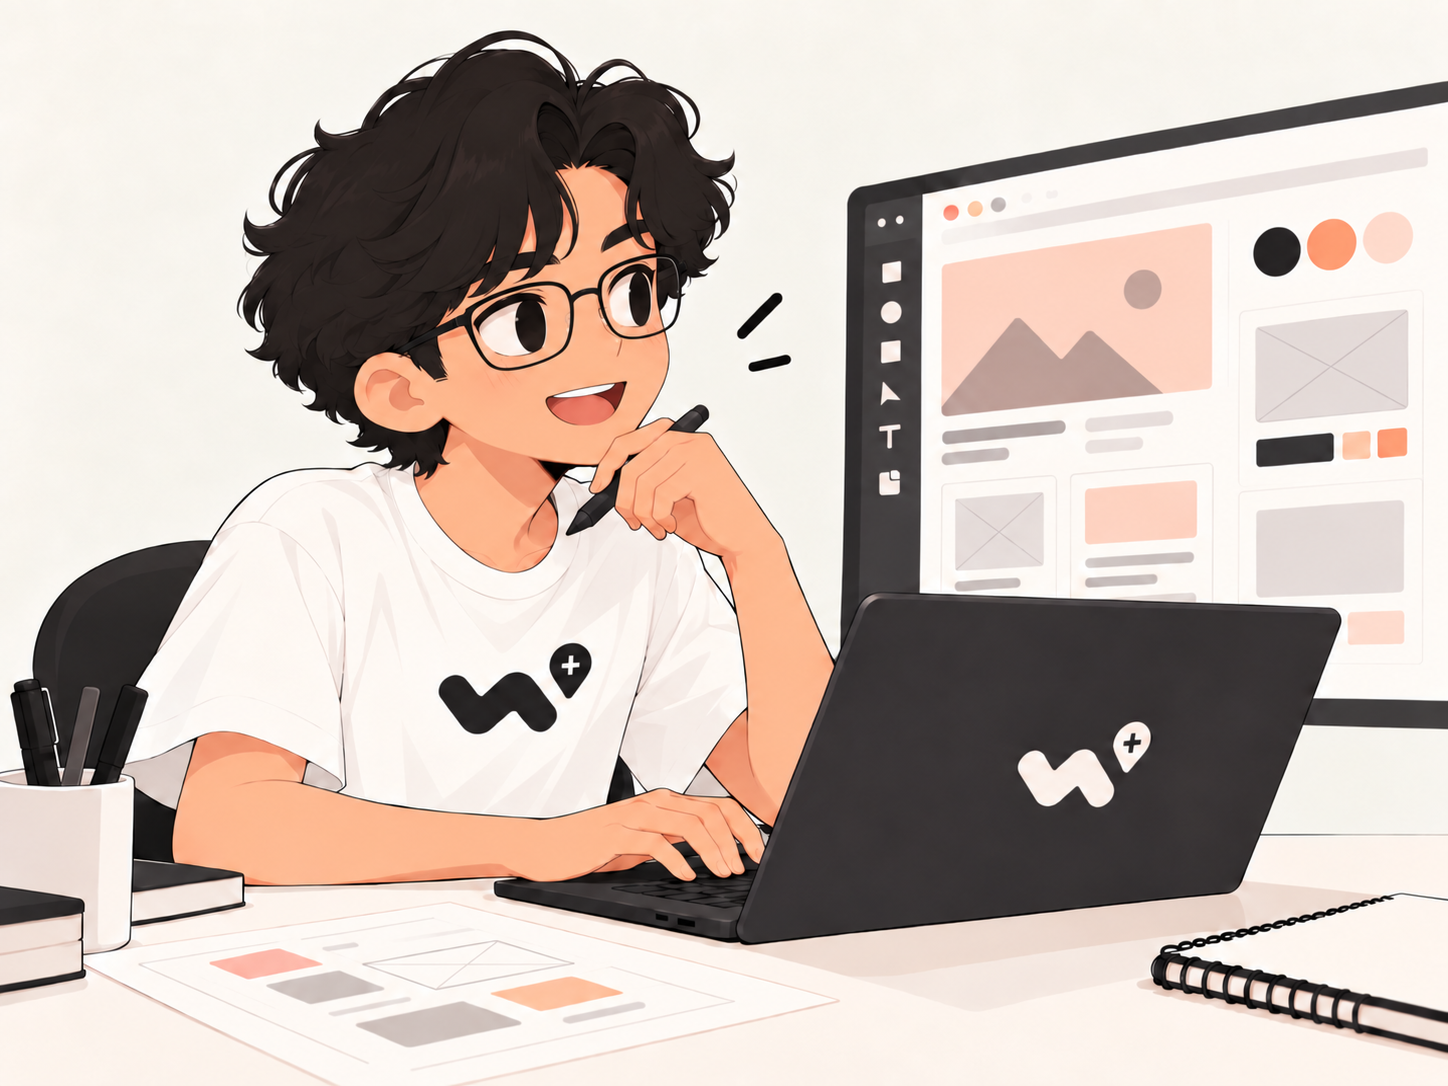
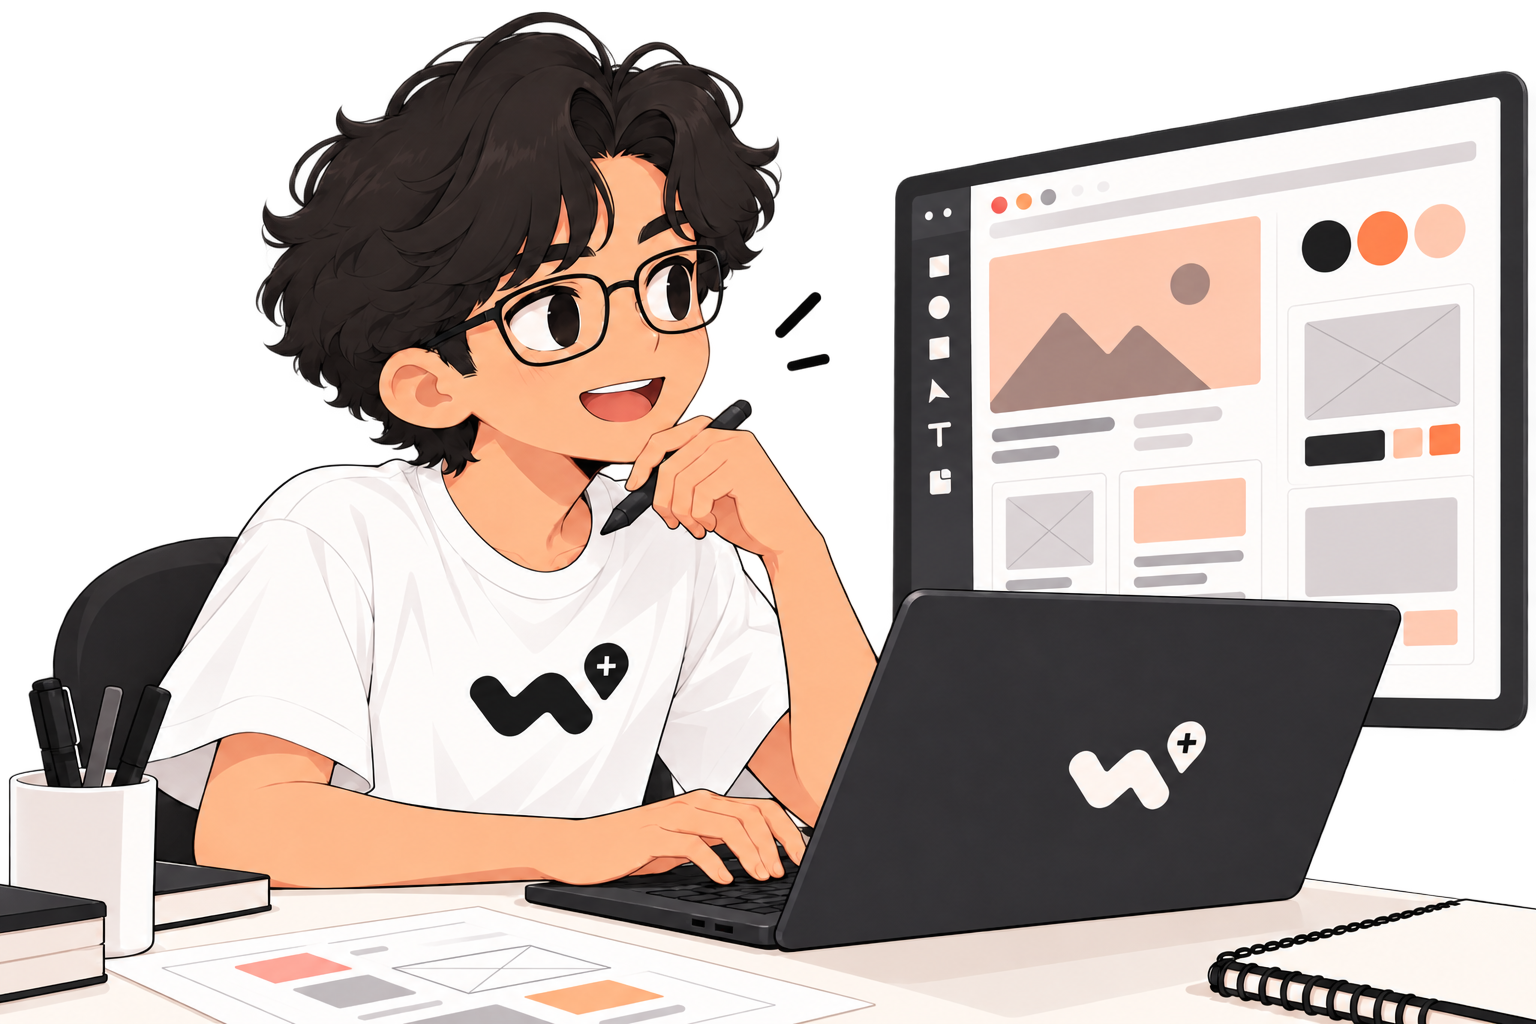
feat: add Desenvolvimento illustration, invert bookmark colors, and enable vertical drag in projetos

diff --git a/style.css b/style.css
@@ -1563,10 +1563,10 @@ img {
     display: flex;
     flex-wrap: nowrap;
     overflow-x: auto;
-    overflow-y: hidden;
-    /* Impede que seja possível arrastar para cima */
-    touch-action: pan-x;
-    /* Trava o scroll por toque apenas no eixo X */
+    overflow-y: visible;
+    touch-action: pan-x pan-y;
+    -webkit-overflow-scrolling: touch;
+    overscroll-behavior-x: contain;
     gap: 16px;
     scroll-snap-type: x mandatory;
     padding-bottom: 20px;
@@ -1588,6 +1588,7 @@ img {
     scroll-snap-align: center;
     min-height: 420px;
     /* Reduz levemente a altura no mobile */
+    touch-action: pan-x pan-y;
     scale: 0.95;
     /* Card fica levemente menor por padrão */
     filter: grayscale(100%);
@@ -1817,7 +1818,7 @@ img {
   display: flex;
   flex-direction: column;
   justify-content: flex-start;
-  padding: clamp(38px, 4vw, 54px) clamp(28px, 3vw, 44px) clamp(24px, 2.5vw, 36px);
+  padding: clamp(38px, 4vw, 54px) clamp(20px, 2.2vw, 36px) clamp(24px, 2.5vw, 36px);
   gap: 18px;
   border-right: 1px solid #F1F5F9;
   overflow: hidden;
@@ -1826,11 +1827,11 @@ img {
 .cf-feature-header {
   display: flex;
   align-items: center;
-  gap: 16px;
+  gap: clamp(10px, 1.2vw, 16px);
 }
 
 .cf-feature-num {
-  font-size: clamp(2.6rem, 3.2vw, 3.2rem);
+  font-size: clamp(2.4rem, 2.8vw, 3rem);
   font-weight: 900;
   color: var(--orange);
   line-height: 1;
@@ -1840,13 +1841,12 @@ img {
 }
 
 .cf-feature-title {
-  font-size: clamp(1.75rem, 2.2vw, 2.35rem);
+  font-size: clamp(1.35rem, 1.75vw, 2rem);
   font-weight: 800;
   color: #0F172A;
   line-height: 1.1;
   letter-spacing: -0.02em;
-  word-break: break-word;
-  overflow-wrap: break-word;
+  white-space: nowrap;
 }
 
 /* Descrição: Tipografia legível com mais espaço horizontal para o texto */
@@ -1911,7 +1911,7 @@ img {
   font-weight: 800;
   font-size: 1.25rem;
   font-family: inherit;
-  color: #CBD5E1;
+  color: var(--orange);
   background: var(--white);
   border: 1px solid #E2E8F0;
   border-left: none;
@@ -1922,14 +1922,19 @@ img {
 
 .cf-nav-num:hover {
   background: #f8f9fc;
-  color: var(--orange);
+  color: #e04f00;
   transform: translateX(3px);
 }
 
 .cf-nav-num.active {
-  color: var(--orange);
+  color: #CBD5E1;
   background: var(--white);
   transform: translateX(0);
+}
+
+.cf-nav-num.active:hover {
+  color: #CBD5E1;
+  transform: none;
 }
 
 /* 8. Patterns Decorativos */
@@ -2036,8 +2041,8 @@ img {
     border-radius: 14px 14px 0 0;
     border: 1.5px solid #E2E8F0;
     border-bottom: none;
-    background: #EDF2F7;
-    color: #94A3B8;
+    background: var(--white);
+    color: var(--orange);
     font-weight: 800;
     font-size: 1.12rem;
     font-family: inherit;
@@ -2053,12 +2058,12 @@ img {
 
   .cf-nav-num:hover {
     background: #F8FAFC;
-    color: var(--orange);
+    color: #e04f00;
     transform: translateY(-2px);
   }
 
   .cf-nav-num.active {
-    color: var(--orange);
+    color: #CBD5E1;
     background: var(--white);
     height: 46px;
     margin-top: -6px;
@@ -2066,6 +2071,11 @@ img {
     border-bottom: 2px solid var(--white);
     box-shadow: 0 -4px 12px rgba(0, 0, 0, 0.04);
     z-index: 12;
+    transform: none;
+  }
+
+  .cf-nav-num.active:hover {
+    color: #CBD5E1;
     transform: none;
   }
 
@@ -2136,9 +2146,9 @@ img {
   }
 
   .cf-feature-title {
-    font-size: clamp(1.6rem, 5vw, 1.85rem);
+    font-size: clamp(1.35rem, 4.6vw, 1.8rem);
     line-height: 1.1;
-    word-break: break-word;
+    white-space: nowrap;
   }
 
   /* Texto Justificado com Distribuição Equilibrada */

diff --git a/index.html b/index.html
@@ -281,7 +281,7 @@
                   <p class="cf-feature-desc">Transformamos o projeto em um site funcional, responsivo e profissional. Utilizamos as melhores práticas de código limpo, otimização de velocidade (Core Web Vitals) e acessibilidade.</p>
                 </div>
                 <div class="cf-feature-visual">
-                  <img src="assets/Briefing.png" alt="Ilustração de Desenvolvimento" class="cf-mockup-image">
+                  <img src="assets/Desenvolvimento.png" alt="Ilustração de Desenvolvimento" class="cf-mockup-image">
                 </div>
               </div>
 
